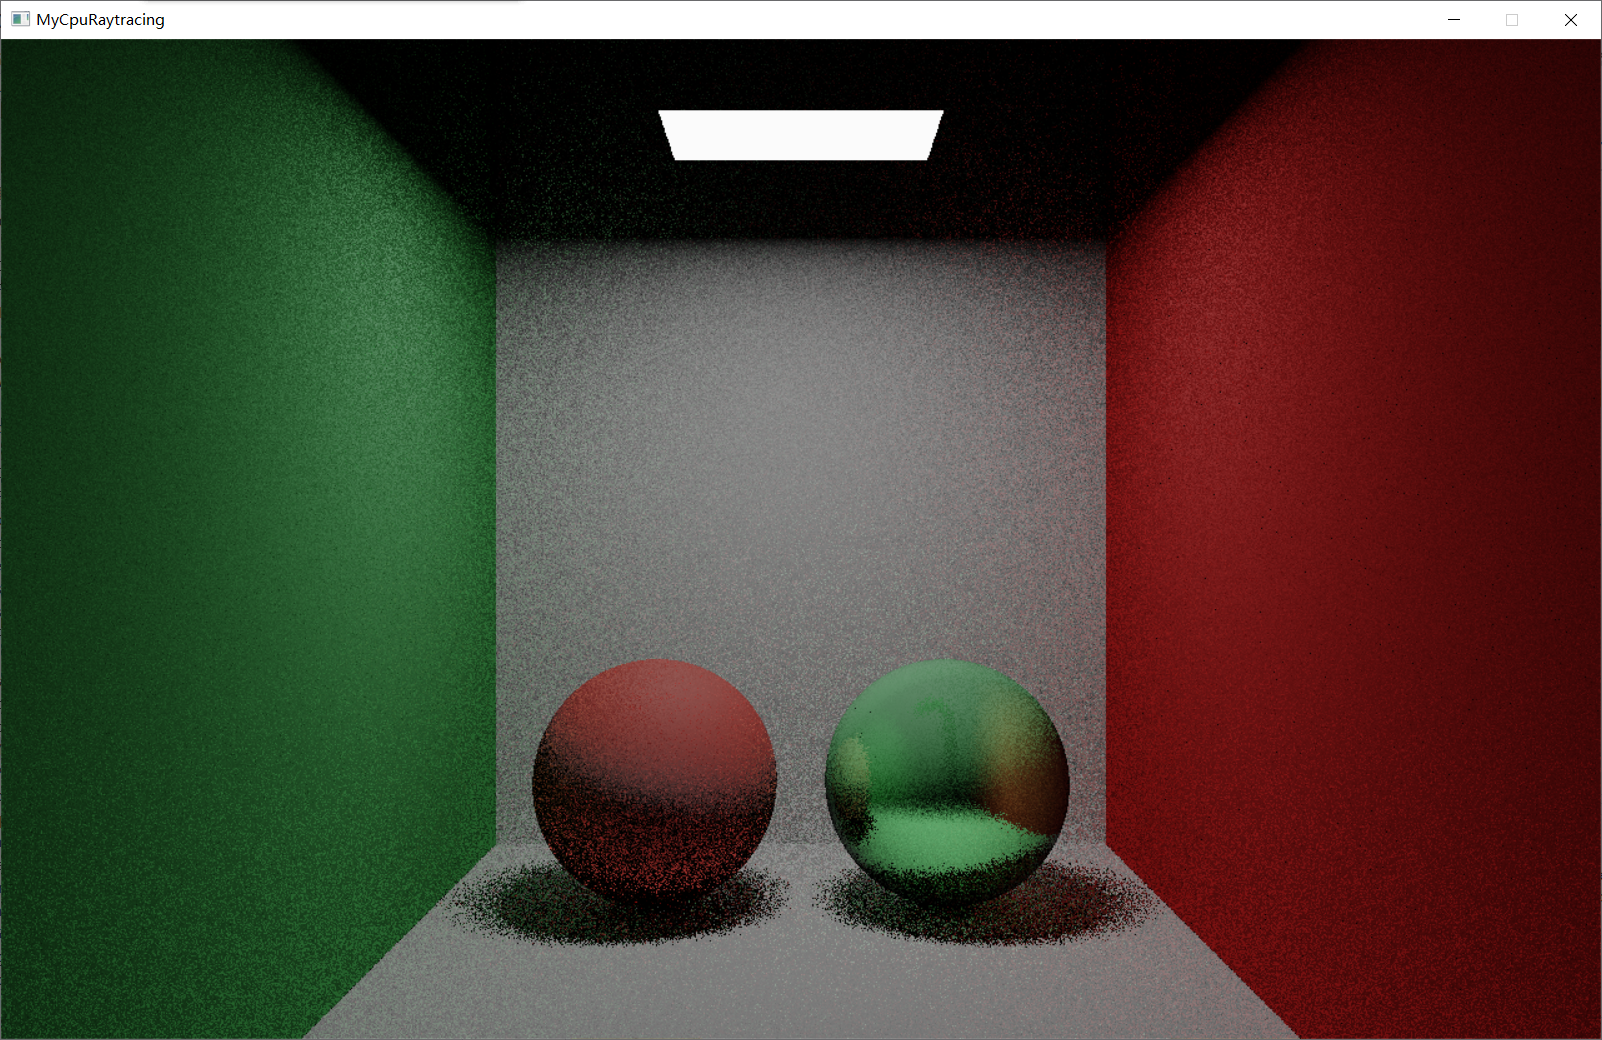
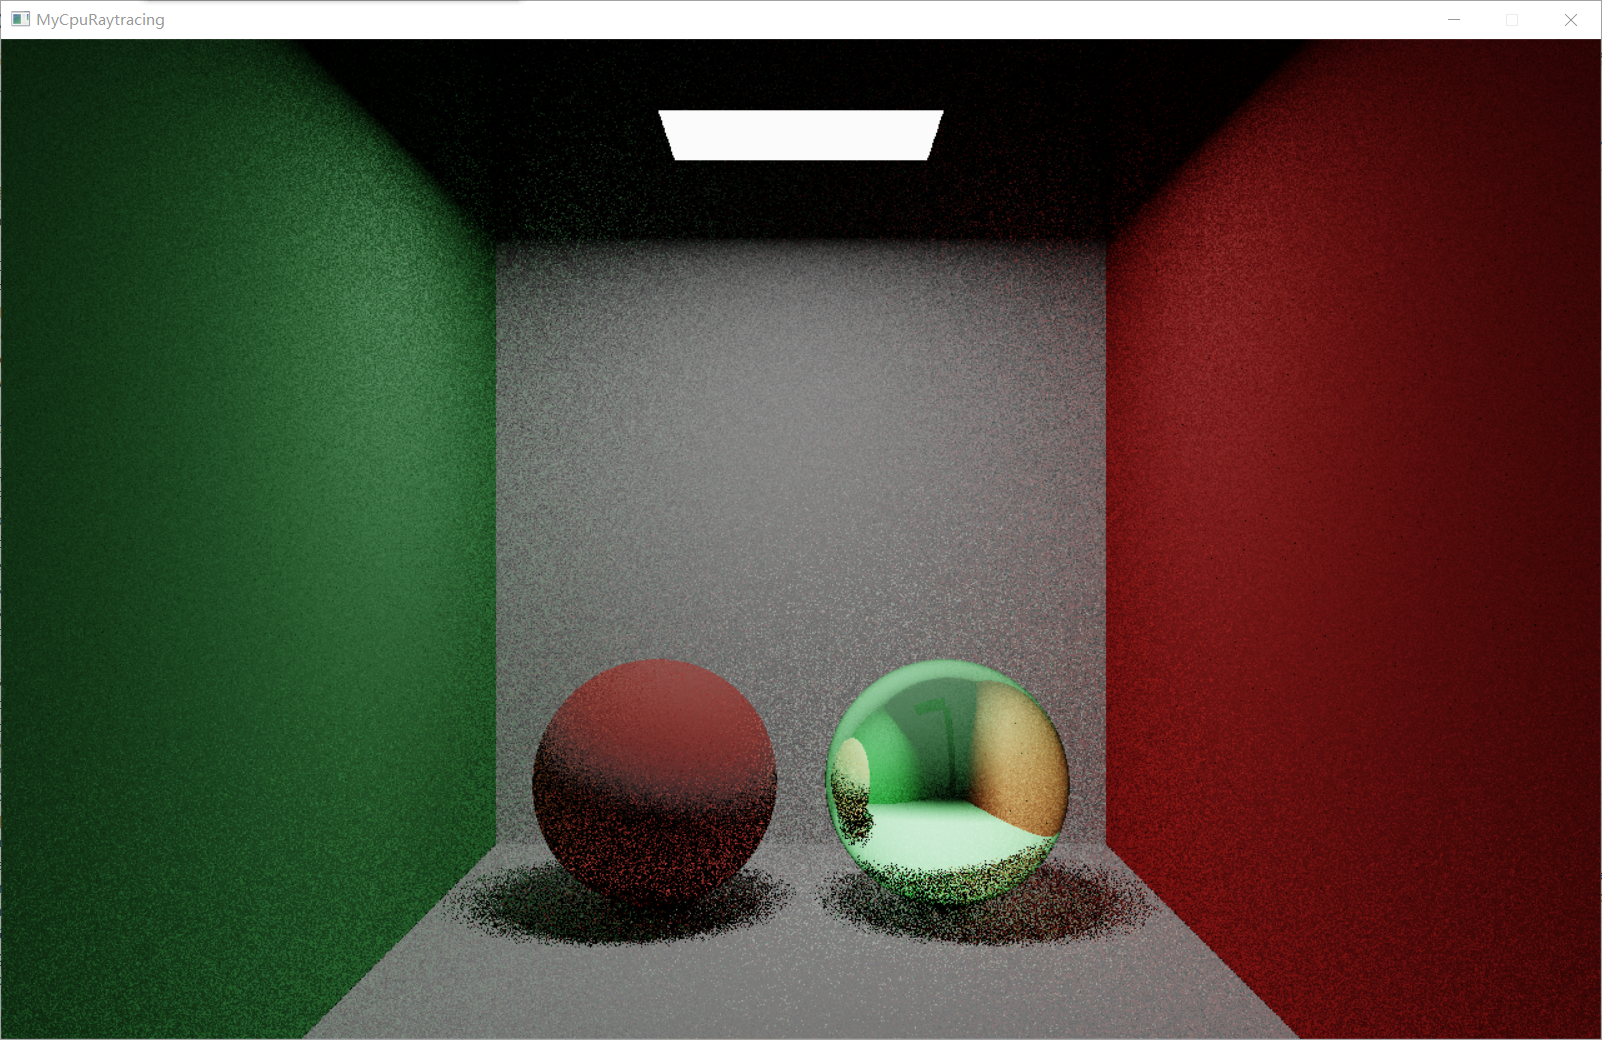
update readme and result

Changed region(s): [[0.0, 0.0, 1.0, 1.0], [0.0, 0.0, 0.0936, 0.0308]]

diff --git a/src/main.cpp b/src/main.cpp
@@ -55,8 +55,8 @@ int main(int argc, char* argv[])
 	std::shared_ptr<PBRMaterial>  shader1 = std::make_shared<PBRMaterial>(TinyGlm::vec4<float>(0.63f, 0.065f, 0.05f), TinyGlm::vec3<float>(0.3f, 0.1f, 0.7f), 10.f, 0.15f,0.2f);
 	std::shared_ptr<PBRMaterial>  red = std::make_shared<PBRMaterial>(TinyGlm::vec4<float>(0.65f, 0.05f, 0.05f), TinyGlm::vec3<float>(0.9f, 0.5f, 0.3f), 10.f, 0.02f, 0.2f);
 	std::shared_ptr<PBRMaterial>  white = std::make_shared<PBRMaterial>(TinyGlm::vec4<float>(0.75f, 0.75f, 0.75f), TinyGlm::vec3<float>(0.1f, 0.7f, 0.01f), 10.f, 0.02f, 0.2f);
-	std::shared_ptr<PBRMaterial>  pbr_high_roughness_red = std::make_shared<PBRMaterial>(TinyGlm::vec4<float>(0.65f, 0.06f, 0.05f), TinyGlm::vec3<float>(0.9f, 0.5f, 0.3f), 1.f,0.78f, 0.2f);
-	std::shared_ptr<PBRMaterial>  pbr_low__roughness_green = std::make_shared<PBRMaterial>(TinyGlm::vec4<float>(0.12f, 0.45f, 0.15f), TinyGlm::vec3<float>(0.9f, 0.5f, 0.3f), 1.f, 0.22f, 0.2f);
+	std::shared_ptr<PBRMaterial>  pbr_high_roughness_red = std::make_shared<PBRMaterial>(TinyGlm::vec4<float>(0.65f, 0.06f, 0.05f), TinyGlm::vec3<float>(0.9f, 0.5f, 0.3f), 1.f,0.98f, 0.2f);
+	std::shared_ptr<PBRMaterial>  pbr_low__roughness_green = std::make_shared<PBRMaterial>(TinyGlm::vec4<float>(0.12f, 0.45f, 0.15f), TinyGlm::vec3<float>(0.9f, 0.5f, 0.3f), 1.f, 0.02f, 0.2f);
 
 
 

diff --git a/src/PBRMaterial.cpp b/src/PBRMaterial.cpp
@@ -174,7 +174,7 @@ float PBRMaterial::GetPdf(const TinyGlm::vec3<float>& income_view, const TinyGlm
         TinyGlm::vec3<float> normal_not_const = normal;
         float D = DistributionGGX(normal_not_const, worldHalf, roughness);
         float result = D / (4.0f * normal_not_const.dot(out_light));
-        result = result + 0.01f;
+        result =std::max(result , 0.01f);
         return (result);
     }
 }

diff --git a/README.md b/README.md
@@ -35,36 +35,41 @@ PBR MATERIAL:
 ### ② Multithreading Acceleration Rendering
 ### ---Thread Pool
 ### ---Message Queue
-
-### ③ Space Accelerating Structurer
+### ③ Light Transport Algorithm
+### ---Path Tracing
+### ④ Space Accelerating Structurer
 ### ---BVH
-### ④ Object
+### ⑤ Object
 ### ---Sphere
 ### ---Rectangle
 ### ---Triangle
 ### ---MeshTriangle
-### ④ Material
+### ⑥ Material
 ### ---Diffuse
 ### ---Microfacet BRDF
-### ⑤ Sampling
+### ⑦ Sampling
 ### ---Cos-Weighted Importance Sampling
 ### ---BRDF Importance Sampling
-### ⑤ Light
+### ⑧ Light
 ### ---SphereLight (PointLight)
 ### ---AreaLight
-### ⑤ Camera
+### ⑨ Camera
 ### ---Perspective Camera
 
-### ⑤ Tool
+### ⑩ Tool
 ### ---Toon-mapping
 ### ---NormalSpace To WorldSpace
 ### ---Random number generator
 
 ## Feature(To done list)
-### ③ Space Accelerating Structurer
+### ① Light Transport Algorithm
+### ---BDPT, Bidirectional Path Tracing
+### ---MLT, Metropolis Light Transport
+### ---SPPM, Stochastic Progress Photon Mapping
+### ② Space Accelerating Structurer
 ### ---SAH
 ### ---Octree
-### ④ Object(Maybe will do)
+### ③ Object(Maybe will do)
 ### ---OBJLoader
 ### ---Texture
 ### ④ Material
@@ -73,9 +78,9 @@ PBR MATERIAL:
 ### ⑤ Sampling
 ### ---Importance Sampling
 ### ---Multiple Importance Sampling
-### ⑤ Post process
+### ⑥ Post process
 ### ---TAA
-### ⑤ Tool
+### ⑦ Tool
 ### ---Toon-mapping
 ### ---NormalSpace To WorldSpace
 ### ---Random number generator
